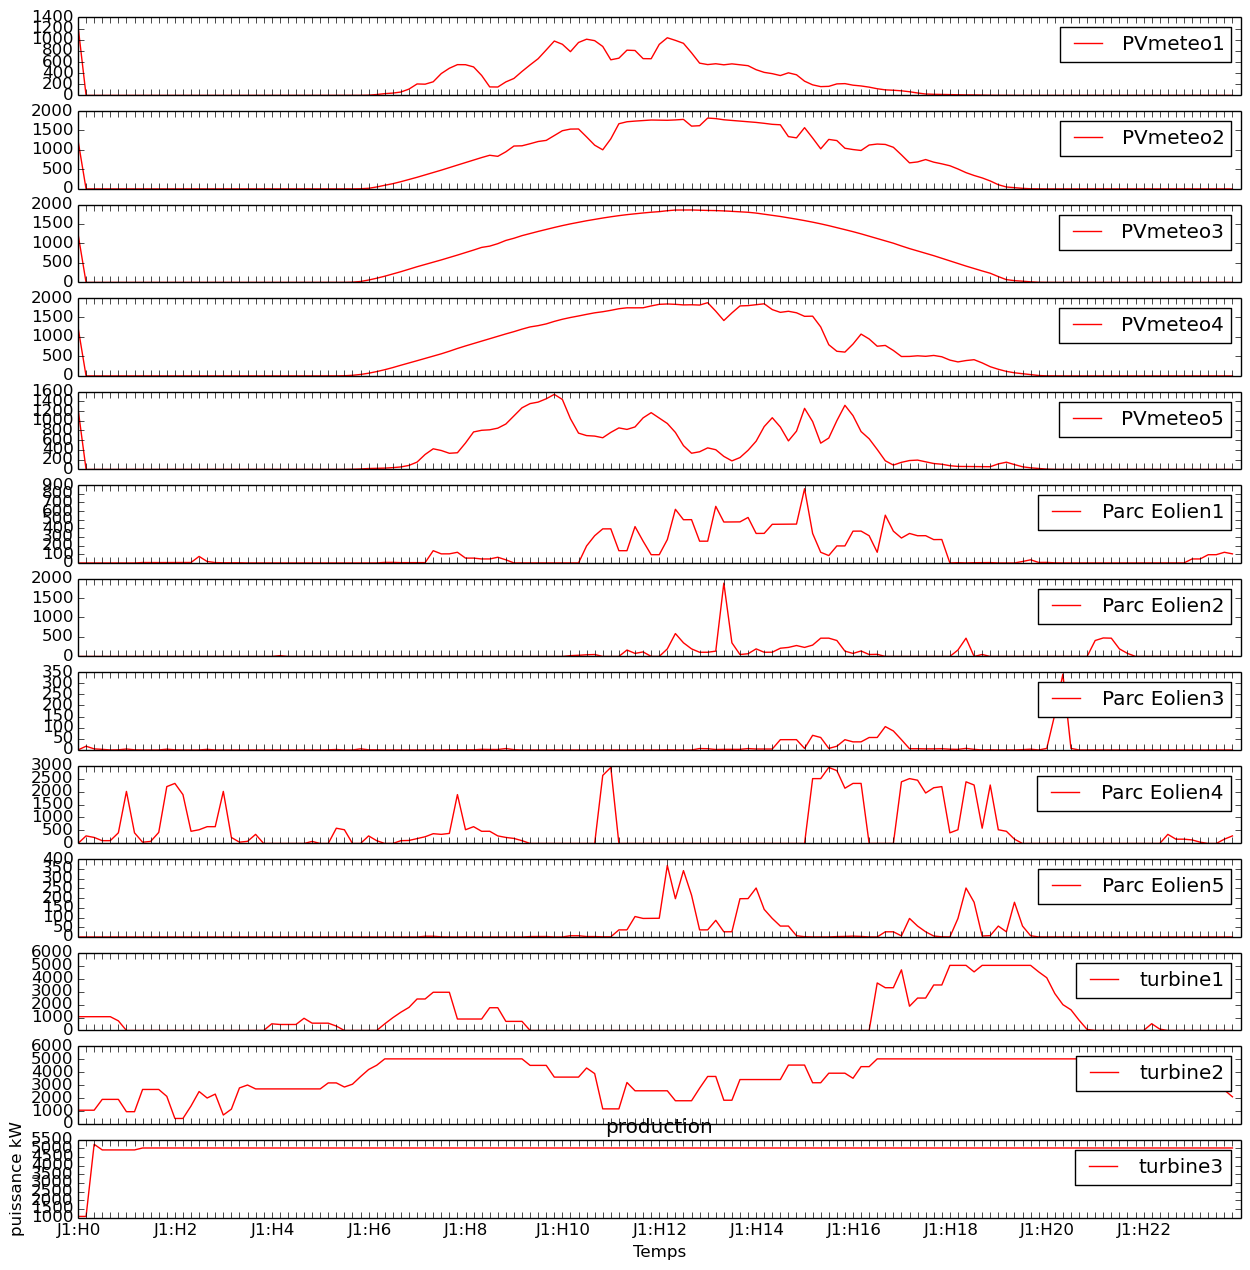
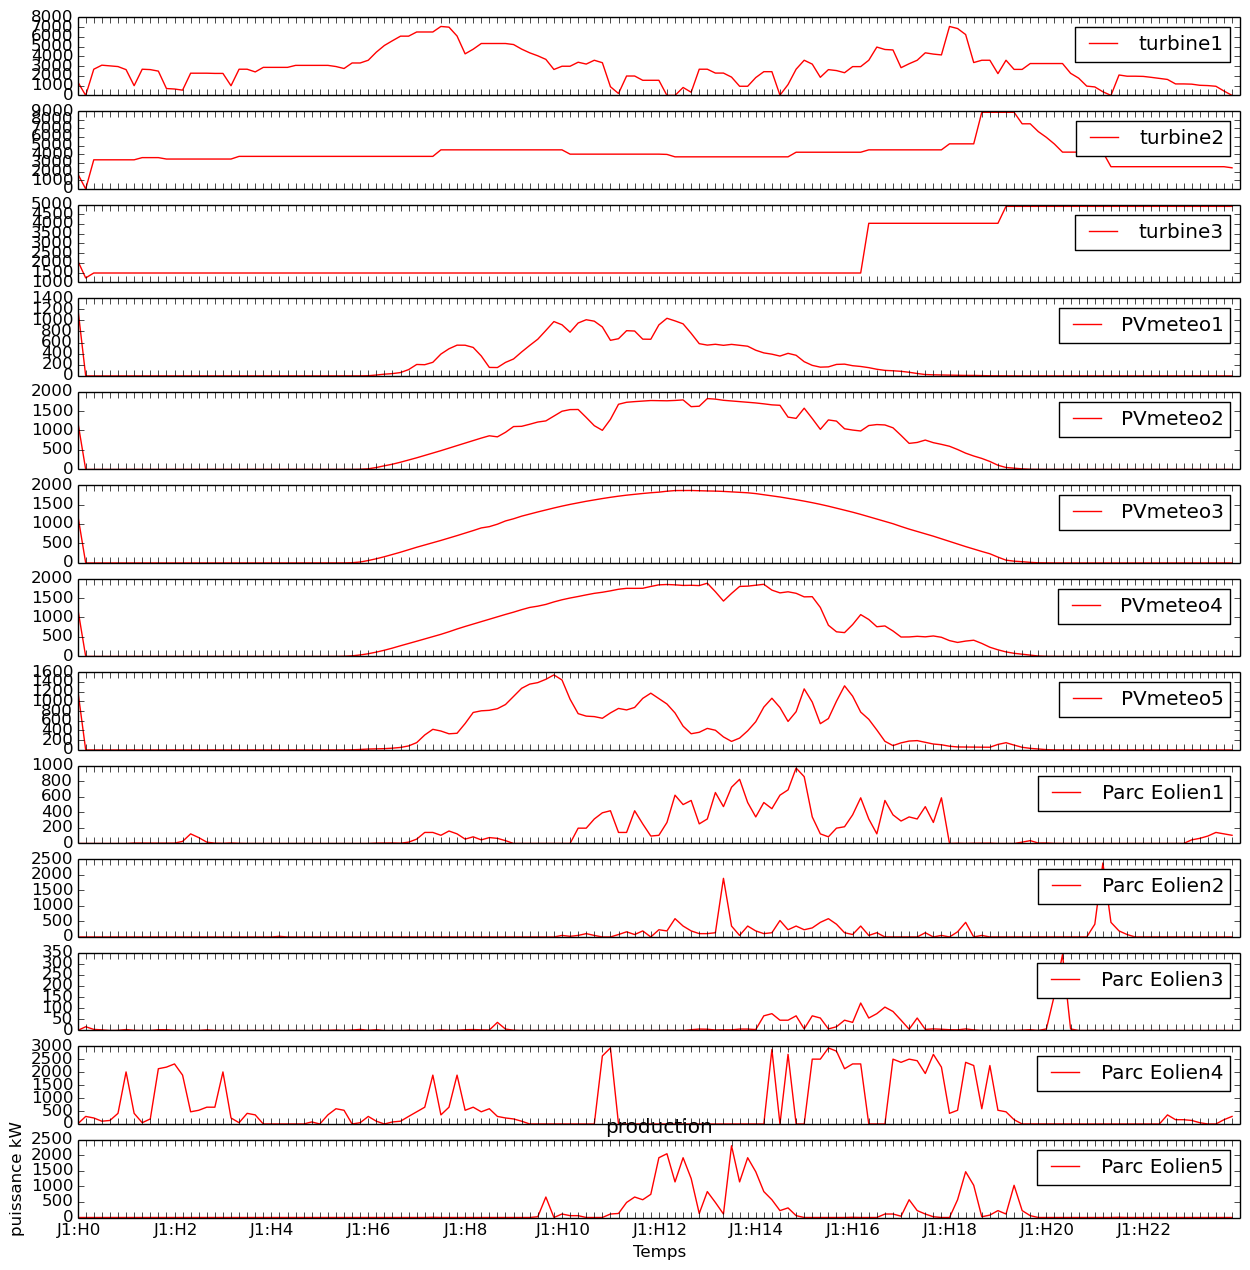
maj equipement

diff --git a/Equipement/ParcTurbineAGaz.py b/Equipement/ParcTurbineAGaz.py
@@ -8,33 +8,42 @@ class ParcTurbineAGaz:
         self.EFFA_MAX=effa
         self.activite=activite
         self.effacement=0.
-        self.demarrage=[0.,0.,0.,0.,22.6,32.,56.5,67.79,74.2,81.51,96.83,100.,100.,100.,98.46,96.04,94.43,94.43,94.43,94.43,94.43,92.33,92.33,92.33,92.33,92.33,92.33,92.33,92.33,92.33,92.33] #courbe de montée en puissance, pas de 1 min
-        self.arret=[100.,100.,100.,100.,100.,100.,100.,100.,100.,30.71,0.,0.,0.,0.,0.,0.,0.,0.,0.,0.,0.,0.,0.,0.,0.,0.,0.,0.,0.,0.] #courbe d'arrêt
+        #self.demarrage=[0.,22.6,32.,56.5,67.79,74.2,81.51,96.83,100.,100.,100.,98.46,96.04,94.43,94.43,94.43,94.43,94.43,92.33,92.33,92.33,92.33,92.33,92.33,92.33,92.33,92.33,92.33] #courbe de montée en puissance, pas de 1 min
+        self.demarrage=[0.,22.6,38.,51.,51.]
+        #self.arret=[100.,100.,100.,100.,100.,100.,100.,100.,100.,30.71,0.,0.,0.,0.,0.,0.,0.,0.,0.,0.,0.,0.,0.,0.,0.,0.,0.,0.,0.,0.] #courbe d'arrêt
+        self.arret=[50.,35.,10.,0.,0.]
         self.cout=self.varcout*self.activite/100.*self.PROD_MAX*(80./1000./6.)*self.nombre
         
     def prevision(self,consigne=0.,effacement=-1.):
-        if consigne==0 and effacement==-1:
+        if consigne==0. and effacement==-1.:
             return (self.activite,(self.varcout*self.activite/100.*self.PROD_MAX*(80./1000./6.)*self.nombre))
-        
+        print "prix turbine: %f"%(1000. + 2.*self.varcout*consigne/100.*self.PROD_MAX*(80./1000./6.)*self.nombre)
         if consigne > self.activite+1. : #si on veut augmenter la puissance, on place l'activité actuelle sur la courbe de montée en puissance et on en déduit l'état à t+10min, 1. pour les flottants
-            i=0
-            while self.activite > self.demarrage[i]:
-                i+=1
-            if consigne < self.demarrage[i+10]: #si l'activité demandée est atteinte avant t+10min
-                return (consigne,2.*self.varcout*consigne/100.*self.PROD_MAX*(80./1000./6.)*self.nombre) #nous avons supposé pour l'instant qu'il est deux fois plus cher de mettre la turbine en marche que de garder un fonctionnement constant, ce qui explique le facteur "2". 
+            if self.activite < 50.: #on suppose que la courbe de charge ne fonctionne qu'au démarrage (ie avant 50%)
+                i=0
+                while self.activite > self.demarrage[i]:
+                    i+=1
+                if consigne <= self.demarrage[i+1]: #si l'activité demandée est atteinte avant t+10min
+                    
+                    return (consigne,1000. + 2.*self.varcout*consigne/100.*self.PROD_MAX*(80./1000./6.)*self.nombre) #nous avons supposé pour l'instant qu'il est deux fois plus cher de mettre la turbine en marche que de garder un fonctionnement constant, ce qui explique le facteur "2". 
+                else:
+                    return (self.demarrage[i+1],1000. + 2.*self.varcout*self.demarrage[i+1]/100.*self.PROD_MAX*(80./1000./6.)*self.nombre) 
             else:
-                return (self.demarrage[i+10],2.*self.varcout*self.demarrage[i+10]/100.*self.PROD_MAX*(80./1000./6.)*self.nombre) 
+                return (consigne, self.varcout*consigne/100.*self.PROD_MAX*(80./1000./6.)*self.nombre)
         elif consigne < self.activite-1.: #même chose avec l'arrêt
-            i=0
-            while self.activite < self.arret[i]:
-                i+=1
-            if consigne > self.arret[i+10]:
-                return (consigne,0.5*self.varcout*self.activite/100.*self.PROD_MAX*(80./1000./6.)*self.nombre) #voir 8 lignes plus haut pour avoir l'explication du facteur "0.5". c'est assez imprécis comme raisonnement mais pour le moment, il nous manque les données relatives au calcul de ces coûts
+            if self.activite < 50.:
+                i=0
+                while self.activite <= self.arret[i]:
+                    i+=1
+                if consigne > self.arret[i+1]:
+                    return (consigne,1000. + 0.5*self.varcout*self.activite/100.*self.PROD_MAX*(80./1000./6.)*self.nombre) #voir 8 lignes plus haut pour avoir l'explication du facteur "0.5". c'est assez imprécis comme raisonnement mais pour le moment, il nous manque les données relatives au calcul de ces coûts
+                else:
+                    return (self.arret[i+1],1000. + 0.5*self.varcout*self.activite/1000.*self.PROD_MAX*(80./10000./6.)*self.nombre)
             else:
-                return (self.arret[i+10],0.5*self.varcout*self.activite/100.*self.PROD_MAX*(80./1000./6.)*self.nombre)
+                return (consigne, self.varcout*consigne/100.*self.PROD_MAX*(80./1000./6.)*self.nombre)
         else: #si on garde une activité constante
-            return (consigne,self.varcout*self.activite/100.*self.PROD_MAX*(80./1000./6.)*self.nombre)
-            
+            return (consigne,self.varcout*consigne/100.*self.PROD_MAX*(80./1000./6.)*self.nombre)
+        #return (consigne,self.varcout*self.activite/100.*self.PROD_MAX*(80./1000./6.)*self.nombre)
     def simulation(self):
         (prodmin,coutmin)=self.prevision(0.,0.)
         (prodmax,coutmax)=self.prevision(100.,0.)

diff --git a/main.py b/main.py
@@ -102,10 +102,10 @@ while Global.temps < duree-1: #boucle principale
                     ind_boucle -= 1               
                 
                     if (simulations[ind][0] < simulations[ind][1]): #équipement à production laissant marge de maneuvre ex : centrale (et pas PV)
-                        ind_boucle3 = 10 #boucle de sécurité 
-                        while (prod_provisoire < conso_future and abs(consigne[ind] - simulations[ind][1]) > 10.**(-3) and ind_boucle3 > 0):
-                            consigne[ind] += (simulations[ind][1]-equip.activite)/10. #on met progressivement la production au max
-                            prod_provisoire += (simulations[ind][1]-equip.activite)/100./10.*equip.PROD_MAX #maj
+                        ind_boucle3 = 100 #boucle de sécurité 
+                        while (prod_provisoire < conso_future and abs(consigne[ind] - simulations[ind][1]) > 10.**(-4) and ind_boucle3 > 0):
+                            consigne[ind] += (simulations[ind][1]-equip.activite)/100. #on met progressivement la production au max
+                            prod_provisoire += (simulations[ind][1]-equip.activite)/100./100.*equip.PROD_MAX #maj
                             ind_boucle3 -=1
                         
                        
@@ -114,6 +114,7 @@ while Global.temps < duree-1: #boucle principale
                         prod_provisoire += (simulations[ind][1]- equip.activite)/100.*equip.PROD_MAX #maj                
                 else:
                      print "indice équipement quand max > conso_future récupéré de ind_pascher trop grand"
+                     break
         else: #on n'a pas suffisamment de production disponible
             for i in range (len(simulations)): # on met tout au max
                 consigne[i] = simulations[i][1]
@@ -183,16 +184,17 @@ while Global.temps < duree-1: #boucle principale
                     equip = ville.equipProduction[ind]
                     ind_boucle4 -= 1
                     if (simulations[ind][0] < simulations[ind][1]): #equipement à production laissant marge de maneuvre ex : centrale (et pas PV)
-                        ind_boucle5 = 10
-                        while (prod_provisoire > conso_future and abs(consigne[ind]-simulations[ind][0]) >= simulations[ind][0]*0.05 and ind_boucle5 > 0):
-                            consigne[ind] -= (equip.activite-simulations[ind][0])/10. #on met progressivement la production au min
-                            prod_provisoire -= (equip.activite-simulations[ind][0])/100./10.*equip.PROD_MAX #maj
+                        ind_boucle5 = 100
+                        while (prod_provisoire > conso_future and abs(consigne[ind]-simulations[ind][0]) >= simulations[ind][0]*0.005 and ind_boucle5 > 0):
+                            consigne[ind] -= (equip.activite-simulations[ind][0])/100. #on met progressivement la production au min
+                            prod_provisoire -= (equip.activite-simulations[ind][0])/100./100.*equip.PROD_MAX #maj
                             ind_boucle5 -= 1
                     else:
                         consigne[ind] = simulations[ind][0] #sinon on met à la production min = max (on n'a pas le choix)
                         prod_provisoire -= (equip.activite-simulations[ind][0])/100.*equip.PROD_MAX #maj
                 else:
-                    print "indice équipement quand min < conso_future récupéré de ind_pascher trop grand"  
+                    print "indice équipement quand min < conso_future récupéré de ind_pascher trop grand"
+                    break  
 
         else: #on ne peut pas baisser suffisamment la production
             for i in range (len(simulations)): # on met tout au min

diff --git a/Ville.py b/Ville.py
@@ -18,25 +18,26 @@ from Utilitaire.Global import meteoTest
 class Ville:
 
 	def __init__(self):
-		self.equipProduction = [ParcSolaire(nom="PVmeteo1",prod=250.,activite=50.,nb=10.,meteo=meteo1),\
-		                        ParcSolaire(nom="PVmeteo2",prod=250.,activite=50.,nb=10.,meteo=meteo2),\
-		                        ParcSolaire(nom="PVmeteo3",prod=250.,activite=50.,nb=10.,meteo=meteo3),\
-		                        ParcSolaire(nom="PVmeteo4",prod=250.,activite=50.,nb=10.,meteo=meteo4),\
-		                        ParcSolaire(nom="PVmeteo5",prod=250.,activite=50.,nb=10.,meteo=meteo5),\
-		                        ParcEolien(nom="eolienne,meteo1",n=500., eolienne="eolienne5", meteoVent=meteo1),\
-		                        ParcEolien(nom="eolienne,meteo2",n=5., eolienne="eolienne1500", meteoVent=meteo2),\
-		                        ParcEolien(nom="eolienne,meteo3",n=500., eolienne="eolienne5", meteoVent=meteo3),\
-		                        ParcEolien(nom="eolienne,meteo4",n=5., eolienne="eolienne1500", meteoVent=meteo4),\
-		                        ParcEolien(nom="eolienne,meteo5",n=50., eolienne="eolienne275", meteoVent=meteo5),\
-		                        ParcTurbineAGaz("turbine1",varcout=1.,nombre=6),\
-		                        ParcTurbineAGaz("turbine2",varcout=1.10,nombre=6),\
-		                        ParcTurbineAGaz("turbine3",varcout=1.13,nombre=6)]
+		self.equipProduction = [ParcTurbineAGaz("turbine1",varcout=0.,nombre=8),\
+ 		                        ParcTurbineAGaz("turbine2",varcout=1.10,nombre=10),\
+ 		                        ParcTurbineAGaz("turbine3",varcout=5.13,nombre=12),\
+  		                        ParcSolaire(nom="PVmeteo1",prod=250.,activite=50.,nb=10.,meteo=meteo1),\
+ 		                        ParcSolaire(nom="PVmeteo2",prod=250.,activite=50.,nb=10.,meteo=meteo2),\
+ 		                        ParcSolaire(nom="PVmeteo3",prod=250.,activite=50.,nb=10.,meteo=meteo3),\
+ 		                        ParcSolaire(nom="PVmeteo4",prod=250.,activite=50.,nb=10.,meteo=meteo4),\
+ 		                        ParcSolaire(nom="PVmeteo5",prod=250.,activite=50.,nb=10.,meteo=meteo5),\
+ 		                        ParcEolien(nom="eolienne,meteo1",n=500., eolienne="eolienne5", meteoVent=meteo1),\
+ 		                        ParcEolien(nom="eolienne,meteo2",n=5., eolienne="eolienne1500", meteoVent=meteo2),\
+ 		                        ParcEolien(nom="eolienne,meteo3",n=500., eolienne="eolienne5", meteoVent=meteo3),\
+ 		                        ParcEolien(nom="eolienne,meteo4",n=5., eolienne="eolienne1500", meteoVent=meteo4),\
+ 		                        ParcEolien(nom="eolienne,meteo5",n=50., eolienne="eolienne275", meteoVent=meteo5),\
+		                        ]
 		self.equipConso = [ParcUsine38("Usine2-38"),\
 						   ParcMaison("parcmaison1",nombre=1200),\
 		                   ParcUsine("Usine1"),\
 		                   ParcEclairagePublic(nombre=2400),\
                                    ParcMagasins()]
-		self.equipStockage = [Stockage()]#,ParcBatterieLithiumIon()]
+		self.equipStockage = [Stockage(),Stockage(),Stockage()]#,ParcBatterieLithiumIon()]
 		self.nombreEquipementProduction = len(self.equipProduction)
 		self.nombreEquipementConso = len(self.equipConso)
 		self.nombreEquipementStockage = len(self.equipStockage)

diff --git a/analyseur.py b/analyseur.py
@@ -304,7 +304,7 @@ if export==True:
 
 
 f,a=plt.subplots(ville.nombreEquipementStockage, sharex=True)
-a=[a,]
+#a=[a,]
 for k in range(ville.nombreEquipementStockage):
     i=k+ville.nombreEquipementProduction+ville.nombreEquipementConso#*ID[i]["Pmax"]/100.
     a[k].plot(list(range(len(etat))), [consigne[j][i] for j in range(len(etat))], "b", linewidth=1, label=ID[i]["nom"].decode('unicode-escape'))
@@ -363,7 +363,7 @@ if export==True:
 
 
 f,a=plt.subplots(ville.nombreEquipementStockage, sharex=True)
-a=[a,]
+#a=[a,]
 for k in range(ville.nombreEquipementStockage):
     i=k+ville.nombreEquipementProduction+ville.nombreEquipementConso#*ID[i]["Pmax"]/100.
     y0=[consigne[j][i]*ID[i]["Pmax"]/100. for j in range(len(etat))]

diff --git a/Equipement/ParcMagasins.py b/Equipement/ParcMagasins.py
@@ -4,7 +4,7 @@ from Utilitaire.heure import Utilitaire
 from Utilitaire import Global
 
 class ParcMagasins (Utilitaire) : # des commerces de centre ville aux petits supermarchés
-    def __init__(self,nom="magasins",prod=-10.,effa=50.,activite=0.,nombre=20):
+    def __init__(self,nom="magasins",prod=-10.,effa=2.,activite=0.,nombre=20):
         self.nombre=nombre
         self.PROD_MAX=prod*self.nombre
         self.EFFA_MAX=effa*self.nombre
